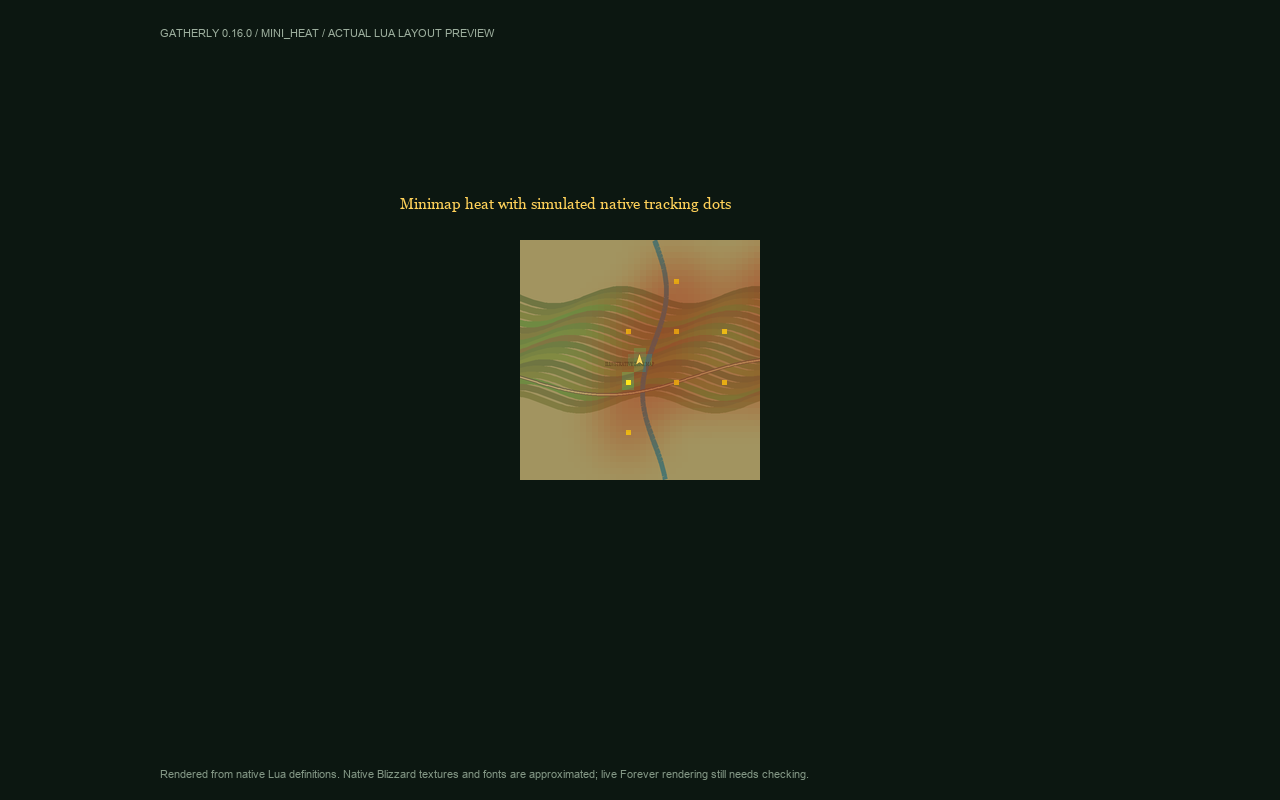
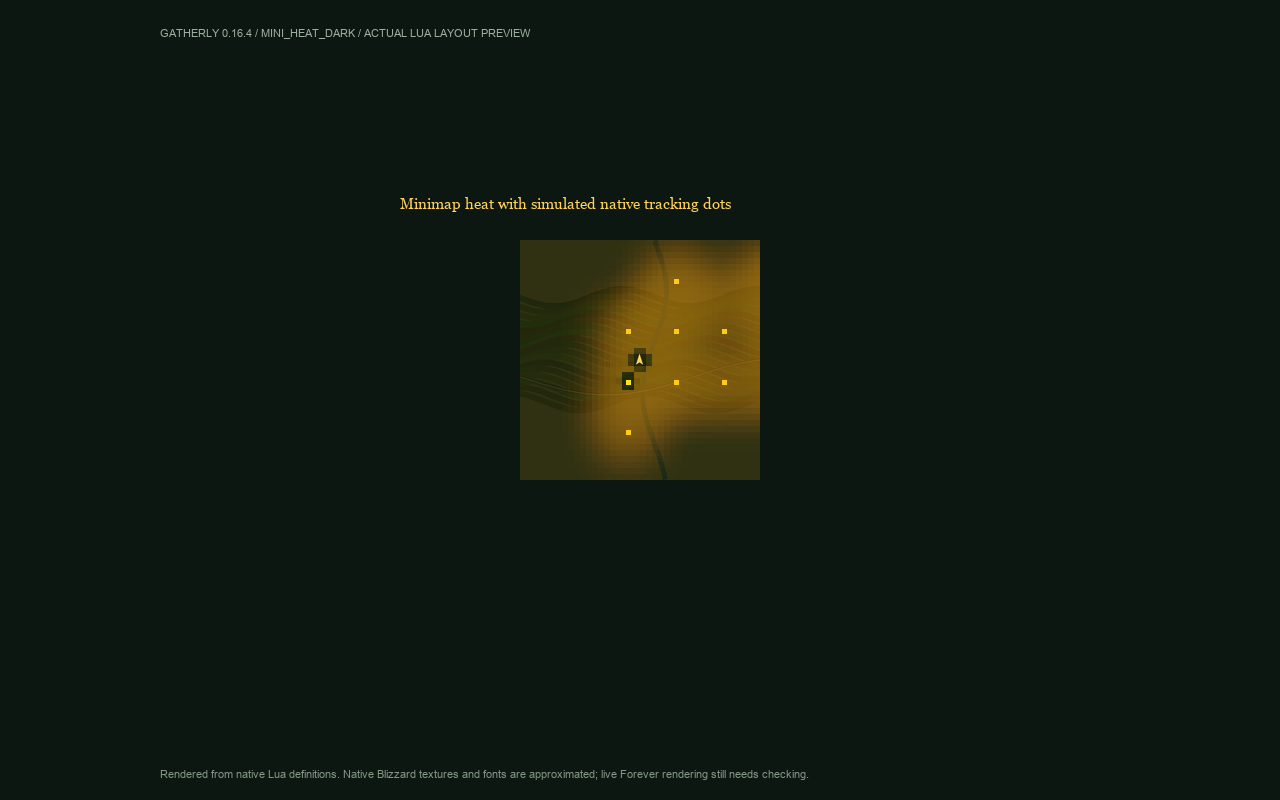
Brighten minimap heat so corridors stand out on dark terrain

Changed region(s): [[0.4062, 0.2812, 0.5938, 0.625], [0.25, 0.0312, 0.4062, 0.0625]]

diff --git a/tools/render_ui_preview.py b/tools/render_ui_preview.py
@@ -35,7 +35,7 @@ CreateFrame=function(...)
  return f
 end
 WorldMapFrame:Hide()
-A={version='0.16.3'};for _,m in ipairs({'Store','Client','Resources','MarkerGroups','SkillTooltip','Selection','Atlas','ResourceLibrary','DifficultyProbe','Editor','Recorder','Corridor','Planner','FarmingSession','Follower','Heatmap','MiniHeat','MinimapPins','Map','Skin','PanelWindow','ScrollPanel','VirtualList','Dropdown','Data/MapReveal','MapOverlays','MapArt','GroupPicker','RouteSketch','RouteView','ResourceLibraryView','UIActions','FilterSidebar','WelcomeView','MarkerFiltersView','NodeDisplayView','PreferencesView','UI','Arrow','MinimapButton'}) do assert(loadfile(m..'.lua'))('Gatherly',A) end
+A={version='0.16.4'};for _,m in ipairs({'Store','Client','Resources','MarkerGroups','SkillTooltip','Selection','Atlas','ResourceLibrary','DifficultyProbe','Editor','Recorder','Corridor','Planner','FarmingSession','Follower','Heatmap','MiniHeat','MinimapPins','Map','Skin','PanelWindow','ScrollPanel','VirtualList','Dropdown','Data/MapReveal','MapOverlays','MapArt','GroupPicker','RouteSketch','RouteView','ResourceLibraryView','UIActions','FilterSidebar','WelcomeView','MarkerFiltersView','NodeDisplayView','PreferencesView','UI','Arrow','MinimapButton'}) do assert(loadfile(m..'.lua'))('Gatherly',A) end
 A.db=A.Store.Open();A.Client.Position=function() return {mapID=1,x=.2,y=.4} end
 A.Client.Size=function() return 1000,600 end
 A.Client.Distance=function(a,b) if not a or not b or a.mapID~=b.mapID then return end;return math.sqrt(((a.x-b.x)*1000)^2+((a.y-b.y)*600)^2) end
@@ -89,7 +89,7 @@ def render(scene):
     if scene in ('marker_filters','marker_override'):
         if scene=='marker_override':lua.execute("A.UI.actions.generateStart();A.db.settings.routeMarkerOverride=true;A.UI.OpenRoutes()")
         lua.execute("A.UI.SetTab('nodes');A.UI.nodeDisplayView.SetPage('filters')")
-    if scene=='mini_heat':
+    if scene in ('mini_heat','mini_heat_dark'):
         lua.execute("A.UI.actions.generateStart();A.db.settings.routeStyle='heatmap';A.Resources.Settings(A.db.settings).mini=false;Minimap=CreateFrame('Frame',nil,UIParent);Minimap:SetSize(240,240);Minimap:SetPoint('TOPLEFT',UIParent,'TOPLEFT',520,-240);local terrain=Minimap:CreateTexture(nil,'BACKGROUND');terrain:SetAllPoints();terrain:SetTexture(9001);C_Minimap={GetViewRadius=function() return 200 end};GetCVar=function() return '0' end;GetMinimapShape=function() return 'SQUARE' end;A.Map.Refresh(A.db,A.follower.route,A.follower);local player=Minimap:CreateTexture(nil,'OVERLAY');player:SetPoint('CENTER',Minimap,'CENTER');player:SetSize(11,16);player:SetTexture('Interface\\\\AddOns\\\\Gatherly\\\\Media\\\\GuideArrow');for _,n in ipairs(A.db.nodes[1]) do local x,y=A.Map.MiniProject(n,A.Client.Position(),1000,600,200,240,240,0);if x then local dot=Minimap:CreateTexture(nil,'OVERLAY');dot:SetColorTexture(1,.9,.1,1);dot:SetSize(4,4);dot:SetPoint('CENTER',Minimap,'CENTER',x,y) end end;local text=A.Skin.Label(UIParent,'Minimap heat with simulated native tracking dots',15,A.Skin.gold);text:SetPoint('TOPLEFT',UIParent,'TOPLEFT',400,-190);text:SetSize(500,30)")
     if scene=='minimap_button':
         lua.execute("A.UI.frame:Hide();Minimap=CreateFrame('Frame',nil,UIParent);Minimap:SetSize(180,180);Minimap:SetPoint('TOPLEFT',UIParent,'TOPLEFT',900,-100);Minimap:SetBackdropColor(.12,.16,.09,1);A.MinimapButton.Build()")
@@ -156,7 +156,7 @@ def render(scene):
         resolving.remove(k);boxes[k]=r;return r
     def visible(o):return o['shown'] is not False and (o['parent'] is None or ident(o['parent'])==0 or visible(o['parent']))
     im=Image.new('RGBA',(screen_w,screen_h),'#0c1711');d=ImageDraw.Draw(im)
-    d.text((160,27),'GATHERLY 0.16.3 / '+scene.upper()+' / ACTUAL LUA LAYOUT PREVIEW',font=ImageFont.truetype('C:/Windows/Fonts/arial.ttf',11),fill='#9cae9d')
+    d.text((160,27),'GATHERLY 0.16.4 / '+scene.upper()+' / ACTUAL LUA LAYOUT PREVIEW',font=ImageFont.truetype('C:/Windows/Fonts/arial.ttf',11),fill='#9cae9d')
     fonts={}; text_report=[]
     def font(o):
         size=int(o['fontSize'] or 12);family='georgia.ttf' if 'FRIZ' in (o['fontPath'] or '') else 'arial.ttf';key=(family,size)
@@ -236,6 +236,7 @@ def render(scene):
         texture=o['texture']
         if texture==9001 and w>0 and h>0:
             art=map_art.copy()
+            if scene=='mini_heat_dark':art=ImageChops.multiply(art,Image.new('RGBA',art.size,(75,85,50,255)))
             if o['crop'] is not None:
                 u=vals(o['crop']);art=art.crop((u[0]*art.width,u[2]*art.height,u[1]*art.width,u[3]*art.height))
             art=art.resize((max(1,round(w)),max(1,round(h))),Image.Resampling.LANCZOS)
@@ -307,4 +308,4 @@ def render(scene):
     path=out/(scene+'.png');im.convert('RGB').save(path)
     (out/(scene+'.json')).write_text(json.dumps(text_report,indent=2),encoding='utf-8')
     print(path)
-for scene in ['routes_small','routes_standard','routes_large','preferences_small','preferences_standard','preferences_large','marker_filters','marker_override','resize_min','resize_wide','resize_tall','codex_min','codex_wide','nodes_min','welcome_min','preferences_min','welcome','welcome_importing','filters_scroll','filters_scroll_end','library','route_heatmap','route_selected','groups','resources','resources_herb','resources_ore','resources_zero','resources_search_empty','resources_page2','resources_restored_preferences','minimap_button','mini_heat','material_skills','empty','compact','preferences','nodes','nodes_mini','arrow','arrow_name','arrow_name_no_progress','arrow_hidden_progress','arrow_paused','arrow_no_direction','dropdown']:render(scene)
+for scene in ['routes_small','routes_standard','routes_large','preferences_small','preferences_standard','preferences_large','marker_filters','marker_override','resize_min','resize_wide','resize_tall','codex_min','codex_wide','nodes_min','welcome_min','preferences_min','welcome','welcome_importing','filters_scroll','filters_scroll_end','library','route_heatmap','route_selected','groups','resources','resources_herb','resources_ore','resources_zero','resources_search_empty','resources_page2','resources_restored_preferences','minimap_button','mini_heat','mini_heat_dark','material_skills','empty','compact','preferences','nodes','nodes_mini','arrow','arrow_name','arrow_name_no_progress','arrow_hidden_progress','arrow_paused','arrow_no_direction','dropdown']:render(scene)

diff --git a/tests/minimap_heat_visibility.py b/tests/minimap_heat_visibility.py
@@ -1,0 +1,43 @@
+"""Measure the real minimap renderer's blended corridor over dark terrain colours."""
+from pathlib import Path
+import os
+import sys
+
+root = Path(__file__).resolve().parents[1]
+sys.path.insert(0, str(root / '.test-deps'))
+from lupa.lua51 import LuaRuntime
+
+os.chdir(root)
+lua = LuaRuntime(unpack_returned_tuples=True)
+lua.execute("""
+dofile('tests/wow.lua');fakeUI();A={}
+for _,name in ipairs({'Store','Resources','Heatmap','MiniHeat'}) do assert(loadfile(name..'.lua'))('Gatherly',A) end
+local route={width=1000,height=500,points={{x=.3,y=.5},{x=.7,y=.5}}}
+local opacity=A.Resources.Settings({}).routeOpacity
+local field=A.MiniHeat.Field(route,function(p) return (p.x-.5)*500,0 end,200,200,'ROUND',{{x=0,y=0,r=4,feather=5}},opacity,function(r) return r*.5,r*.5 end)
+pool={};A.MiniHeat.Draw(pool,Minimap,field,'ROUND')
+""")
+
+
+def luminance(rgb):
+    linear = [c / 12.92 if c <= .04045 else ((c + .055) / 1.055) ** 2.4 for c in rgb]
+    return sum(c * weight for c, weight in zip(linear, (.2126, .7152, .0722)))
+
+
+# Illustrative forest, cave and swamp tones: these are fixtures, not live map captures.
+terrains = {'forest': (26, 32, 11), 'cave': (16, 14, 10), 'swamp': (45, 41, 15)}
+textures = [t for key, t in lua.globals().pool.items() if isinstance(key, (int, float))]
+centreline = [t for t in textures if 20 <= abs(t.point[4] + t.width / 2) <= 65
+              and abs(t.point[5] - t.height / 2) < 5]
+assert len(centreline) >= 16, 'The corridor is missing centreline cells'
+for name, pixels in terrains.items():
+    terrain = [c / 255 for c in pixels]
+    ratios = []
+    for t in centreline:
+        r, g, b, alpha = list(t.color.values())
+        result = [c * alpha + base * (1 - alpha) for c, base in zip((r, g, b), terrain)]
+        ratios.append((luminance(result) + .05) / (luminance(terrain) + .05))
+    low = min(ratios)
+    print(f'Minimap heat on {name}: minimum corridor contrast {low:.2f}:1')
+    assert low >= 2, f'{name}: minimap heat blends into dark terrain ({low:.2f}:1)'
+print('Minimap heat: dark-terrain visibility verified at the default overlay opacity')

diff --git a/tests/package.py b/tests/package.py
@@ -1,7 +1,7 @@
 from pathlib import Path
 import zipfile
 root = Path(__file__).resolve().parents[1]
-path = root / 'dist/Gatherly-0.16.3.zip'
+path = root / 'dist/Gatherly-0.16.4.zip'
 assert path.is_file(), 'Installable ZIP missing'
 with zipfile.ZipFile(path) as z:
     names = z.namelist()
@@ -11,7 +11,7 @@ with zipfile.ZipFile(path) as z:
     metadata = dict(line[3:].split(': ', 1) for line in toc.splitlines() if line.startswith('## '))
     assert metadata['Title'] == 'Gatherly'
     assert metadata['SavedVariables'] == 'GatherlyDB'
-    assert metadata['Version'] == '0.16.3'
+    assert metadata['Version'] == '0.16.4'
     assert metadata['X-License'] == 'MIT'
     assert metadata['IconTexture'] == r'Interface\AddOns\Gatherly\Media\Icon'
     for texture in ['Icon', 'LogoSheet', 'EmptyEmblem', 'NodeRing', 'NodeSquare', 'GuideArrow', 'HeatBlob', 'MinimapMasks']:

diff --git a/tools/package.py b/tools/package.py
@@ -14,7 +14,7 @@ for name in files:
     assert (root / name).is_file(), f'Missing package file: {name}'
 dist = root / 'dist'
 dist.mkdir(exist_ok=True)
-path = dist / 'Gatherly-0.16.3.zip'
+path = dist / 'Gatherly-0.16.4.zip'
 with zipfile.ZipFile(path, 'w', zipfile.ZIP_DEFLATED) as z:
     for name in files:
         z.write(root / name, 'Gatherly/' + name)

diff --git a/tests/run_tests.py b/tests/run_tests.py
@@ -21,3 +21,4 @@ if toc.exists():
     print(f'TOC: {len(names)} files compile under Lua 5.1')
 
 runpy.run_path(str(root / 'tests/heatmap_visibility.py'), run_name='__main__')
+runpy.run_path(str(root / 'tests/minimap_heat_visibility.py'), run_name='__main__')

diff --git a/README.md b/README.md
@@ -14,7 +14,7 @@ where resources grow, build farming routes and follow a clear in-game guide arro
 ![Tests](https://github.com/Red463/Gatherly/actions/workflows/ci.yml/badge.svg)
 ![MIT license](https://img.shields.io/badge/license-MIT-green.svg)
 
-**Current version:** 0.16.3 ? **Client interface:** 16001 ? **Command:** `/gatherly`
+**Current version:** 0.16.4 ? **Client interface:** 16001 ? **Command:** `/gatherly`
 
 ## What it does
 
@@ -47,7 +47,7 @@ where resources grow, build farming routes and follow a clear in-game guide arro
 Gatherly uses the **Gatherly** folder, **Gatherly.lua** saved-data file and
 **GatherlyDB** global. The only slash command is **/gatherly**.
 
-1. Download `Gatherly-0.16.3.zip` from
+1. Download `Gatherly-0.16.4.zip` from
    [Releases](https://github.com/Red463/Gatherly/releases/latest).
    Choose the addon ZIP asset rather than GitHub's automatic **Source code** ZIP.
 2. Close WoW and extract the `Gatherly` folder into your Forever
@@ -191,7 +191,8 @@ Items without location data remain in the default full catalogue.
 Select **Heatmap corridor** above the route sketch to replace the lines with a darker,
 soft burgundy band through the generated farming areas. It is a route view, rather than a
 live resource scanner. The arrow follows the same points; switching views does not
-regenerate the route. Heat also appears on the minimap, replacing its route lines,
+regenerate the route. Heat also appears on the minimap in brighter amber/gold to stand
+out over dark terrain, replacing its route lines,
 while resource markers and the destination marker remain. Its bounded transparent
 field keeps small feathered clearance around the player and current destination.
 It no longer cuts holes around every possible spawn. Thin route lines retain their
@@ -203,7 +204,7 @@ destination aligned with the heat without modifying the shared pin library.
 
 ![Soft density corridor over an illustrative map](docs/images/route-heatmap.png)
 
-![Minimap heat with simulated native tracking dots and player clearance](docs/images/minimap-heat.png)
+![Amber minimap heat on illustrative dark terrain, with simulated tracking dots and player clearance](docs/images/minimap-heat.png)
 
 ### Guide arrow
 

diff --git a/CHANGELOG.md b/CHANGELOG.md
@@ -1,5 +1,10 @@
 # Changelog
 
+## 0.16.4
+
+- Brighten minimap heat to amber/gold and strengthen sparse corridor centres so guidance stands out over dark forest, cave and swamp terrain. Preserve soft edges, player/destination clearance and the existing overlay opacity control.
+- Keep world-map heat unchanged. Add rendered-colour contrast checks at the default minimap opacity and refresh the dark-terrain preview.
+
 ## 0.16.3
 
 - Make the world-map heat corridor clearer by accounting for the actual faded heat texture when balancing overlapping patches. Keep soft edges and readable terrain at crossings; apply the same correction to the Routes preview.
